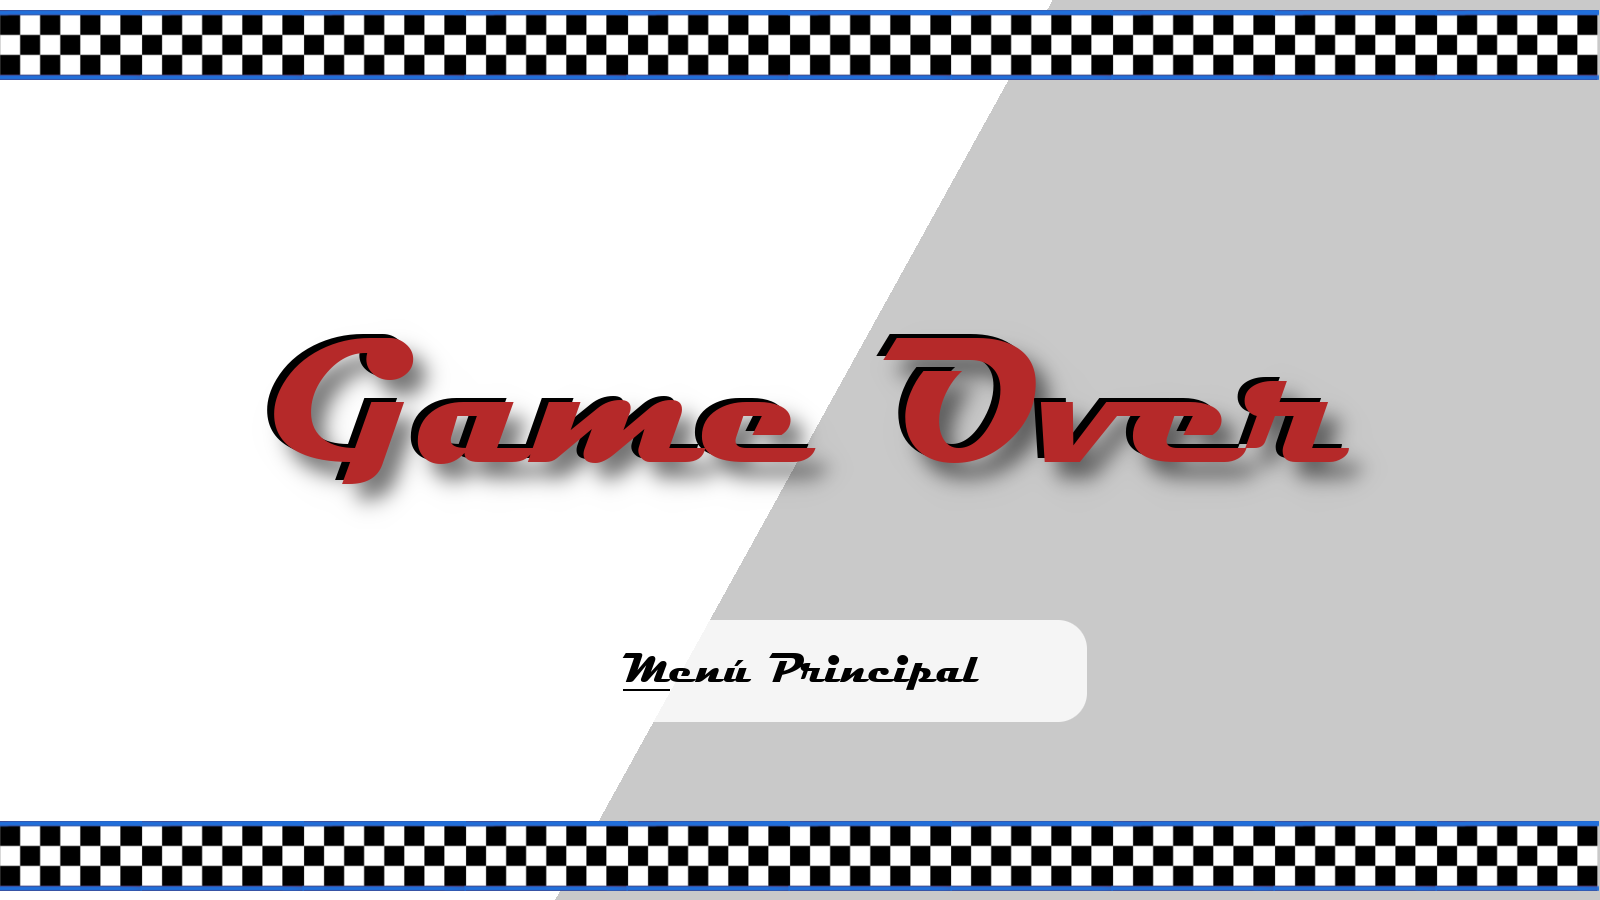
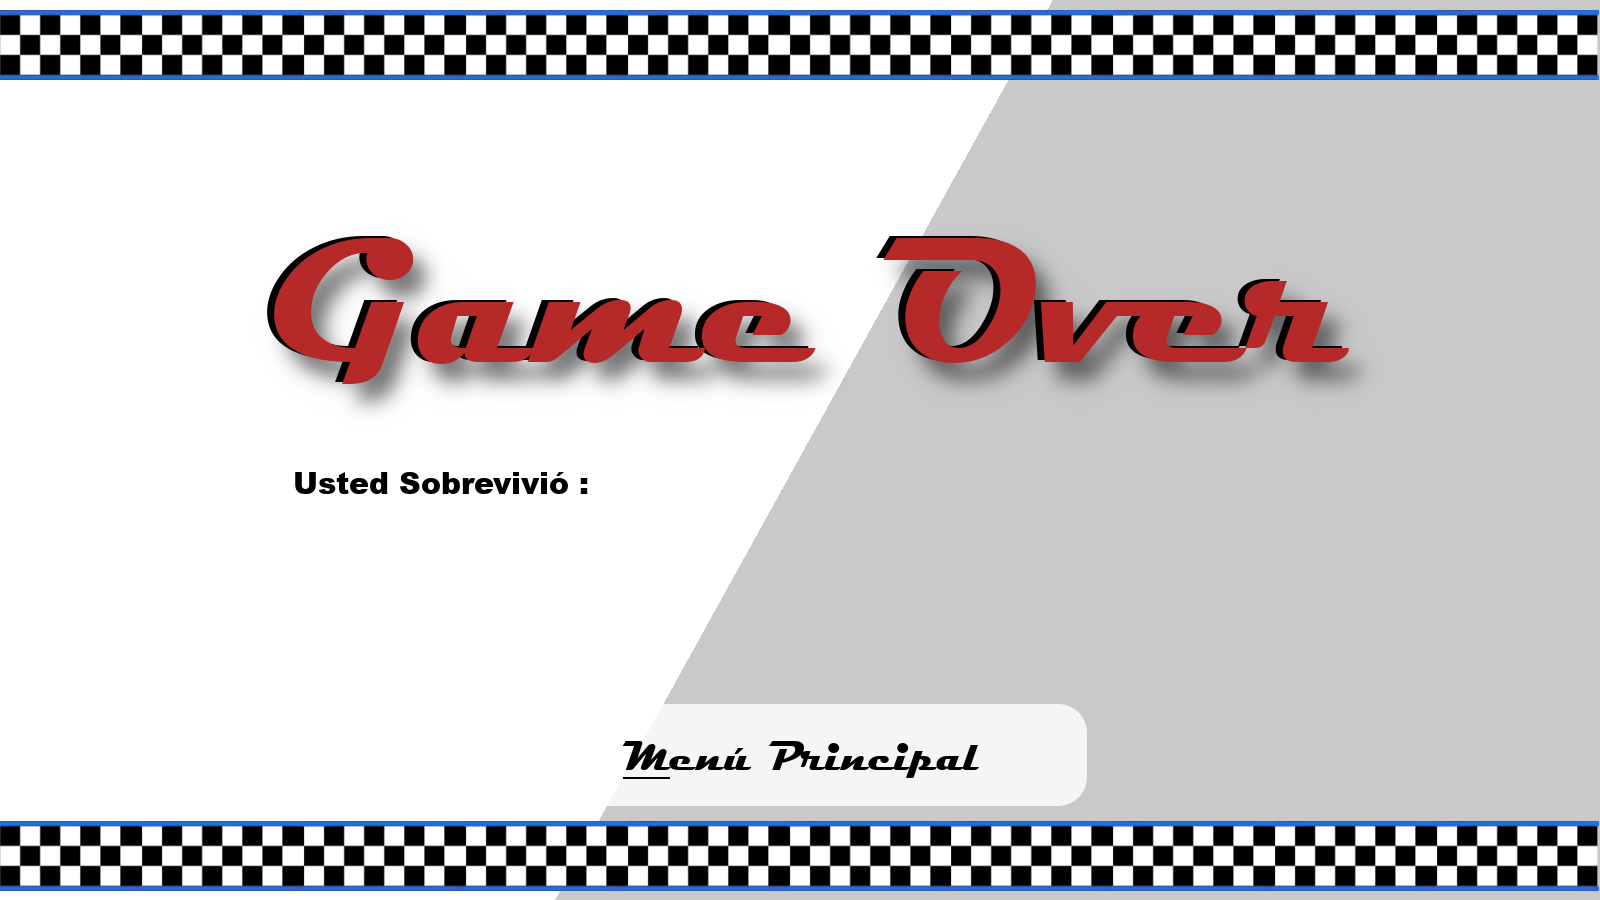
Mejora en Switch Sonidos. Nuevo sonido motor. Game Over más chulo.

Changed region(s): [[0.1562, 0.2489, 0.875, 0.56], [0.375, 0.6844, 0.6875, 0.9022]]

diff --git a/TGC.Group/Model/GameModel.cs b/TGC.Group/Model/GameModel.cs
@@ -69,8 +69,8 @@ namespace TGC.Group.Model
 
         ////////////////////////////////////////////
 
-        int SwitchMusica { get; set; }
-        int SwitchFX { get; set; }
+        bool SwitchMusica = false;
+        bool SwitchFX = false;
         int SwitchInicio { get; set; }
         int SwitchCamara { get; set; }
         int SwitchInvisibilidadJ1 { get; set; }
@@ -205,7 +205,7 @@ namespace TGC.Group.Model
                 auto.choque = new TgcStaticSound();
 
                 auto.sonidoDesaceleracion.loadSound(MediaDir + "Musica\\Desacelerando.wav", -2000, DirectSound.DsDevice);
-                auto.sonidoAceleracion.loadSound(MediaDir + "Musica\\Motor1.wav", -2000, DirectSound.DsDevice);
+                auto.sonidoAceleracion.loadSound(MediaDir + "Musica\\Motor2.wav", -1700, DirectSound.DsDevice);
                 auto.frenada.loadSound(MediaDir + "Musica\\Frenada.wav", -2000, DirectSound.DsDevice);
                 auto.choque.loadSound(MediaDir + "Musica\\Choque1.wav", -2000, DirectSound.DsDevice);
 
@@ -237,12 +237,18 @@ namespace TGC.Group.Model
             {
                 if (TgcCollisionUtils.testAABBAABB(AutoFisico1.BBFinal, Policia.BBFinal) && inGame)
                 {
-                    AutoFisico1.choque.play(false);
+                    if (SwitchFX)
+                    {
+                        AutoFisico1.choque.play(false);
+                    }
                     AutoFisico1.Vida -= 5;
                 }
                 if (TgcCollisionUtils.testAABBAABB(AutoFisico2.BBFinal, Policia.BBFinal) && inGame)
                 {
-                    AutoFisico2.choque.play(false);
+                    if (SwitchFX)
+                    {
+                        AutoFisico1.choque.play(false);
+                    }
                     AutoFisico2.Vida -= 5;
                 }
             }
@@ -251,12 +257,18 @@ namespace TGC.Group.Model
             {
                 if (TgcCollisionUtils.testAABBAABB(AutoFisico1.BBFinal, mesh.BoundingBox) && inGame)
                 {
-                    AutoFisico1.choque.play(false);
+                    if (SwitchFX)
+                    {
+                        AutoFisico1.choque.play(false);
+                    }
                     AutoFisico1.Vida -= 5;
                 }
                 if (TgcCollisionUtils.testAABBAABB(AutoFisico2.BBFinal, mesh.BoundingBox) && inGame)
                 {
-                    AutoFisico2.choque.play(false);
+                    if (SwitchFX)
+                    {
+                        AutoFisico1.choque.play(false);
+                    }
                     AutoFisico2.Vida -= 5;
                 }
             }
@@ -311,42 +323,42 @@ namespace TGC.Group.Model
 
             switch (SwitchMusica)
             {
-                case 1:
+                case true:
                     {
                         Musica.play(true);
                         if (Input.keyPressed(Key.F8))
                         {
-                            SwitchMusica = 2;
+                            SwitchMusica = false;
                         }
                         break;
                     }
-                case 2:
+                case false:
                     {
                         Musica.stop();
                         if (Input.keyPressed(Key.F8))
                         {
-                            SwitchMusica = 1;
+                            SwitchMusica = true;
                         }
                         break;
                     }
             }
             switch (SwitchFX)
             {
-                case 1:
+                case true:
                     {
                         Tribuna.play(true);
                         if (Input.keyPressed(Key.F9))
                         {
-                            SwitchFX = 2;
+                            SwitchFX = false;
                         }
                         break;
                     }
-                case 2:
+                case false:
                     {
                         Tribuna.stop();
                         if (Input.keyPressed(Key.F9))
                         {
-                            SwitchFX = 1;
+                            SwitchFX = true;
                         }
                         break;
                     }
@@ -419,6 +431,7 @@ namespace TGC.Group.Model
                         }
                 }
             }
+
             PostUpdate();
         }
 
@@ -449,8 +462,8 @@ namespace TGC.Group.Model
                         {
                             Jugadores[1] = null;
                             SwitchInicio = 3;
-                            SwitchMusica = 1;
-                            SwitchFX = 1;
+                            SwitchMusica = true;
+                            SwitchFX = true;
                             AutoFisico1.Encendido();
                             inGame = true;
                         }
@@ -458,8 +471,8 @@ namespace TGC.Group.Model
                         {
                             juegoDoble = true;
                             SwitchInicio = 4;
-                            SwitchMusica = 1;
-                            SwitchFX = 1;
+                            SwitchMusica = true;
+                            SwitchFX = true;
                             SwitchCamara = 3;
                             AutoFisico1.Encendido();
                             AutoFisico2.Encendido();
@@ -484,6 +497,7 @@ namespace TGC.Group.Model
 
                         Tiempo += ElapsedTime;
                         AutoFisico1.ElapsedTime = ElapsedTime;
+                        AutoFisico1.FXActivado = SwitchFX;
 
                         // ShaderInvisibilidad -----
                         Invisibilidad.Technique = "DefaultTechnique";
@@ -649,6 +663,8 @@ namespace TGC.Group.Model
                         Tiempo += ElapsedTime;
                         AutoFisico1.ElapsedTime = ElapsedTime;
                         AutoFisico2.ElapsedTime = ElapsedTime;
+                        AutoFisico1.FXActivado = SwitchFX;
+                        AutoFisico2.FXActivado = SwitchFX;
 
                         // ShaderInvisibilidad -----
                         Invisibilidad.Technique = "DefaultTechnique";
@@ -836,6 +852,8 @@ namespace TGC.Group.Model
                     }
                 case 5:
                     {
+                        SwitchFX = false;
+                        SwitchMusica = false;
                         Hud.JuegoTerminado();
                         Hud.TiempoFinal(FastMath.Floor(TiempoFinal));
                         if (Input.keyPressed(Key.M))

diff --git a/TGC.Group/Model/AutoManejable.cs b/TGC.Group/Model/AutoManejable.cs
@@ -30,6 +30,7 @@ namespace TGC.Group.Model
         public TgcStaticSound frenada;
         public TgcStaticSound choque;
         public bool Invisible = false;
+        public bool FXActivado = false;
 
         // Tiempo
         public float ElapsedTime { get; set; }
@@ -45,6 +46,7 @@ namespace TGC.Group.Model
             CuerpoRigidoAuto.Restitution = 0.3f;
             //CuerpoRigidoAuto.RollingFriction = 1000000;
             Fisica.dynamicsWorld.AddRigidBody(CuerpoRigidoAuto);
+
         }        
 
         public void ConfigurarTeclas(Key acelerar, Key atras, Key derecha, Key izquierda, Key freno, Key salto)
@@ -95,7 +97,14 @@ namespace TGC.Group.Model
                     {
                         Direccion = 1;
                         fuerzaMotor = 14000f * ElapsedTime;
-                        sonidoAceleracion.play(true);
+                        if (FXActivado)
+                        {
+                            sonidoAceleracion.play(true);
+                        }
+                        else
+                        {
+                            sonidoAceleracion.stop();
+                        }
                     }
                 }
                 else if (input.keyDown(TeclaAtras))
@@ -104,7 +113,14 @@ namespace TGC.Group.Model
                     {
                         Direccion = -1;
                         fuerzaMotor = 300f;
-                        sonidoAceleracion.play(true);
+                        if (FXActivado)
+                        {
+                            sonidoAceleracion.play(true);
+                        }
+                        else
+                        {
+                            sonidoAceleracion.stop();
+                        }
                     }
                 }
                 else
@@ -136,7 +152,10 @@ namespace TGC.Group.Model
                 if (input.keyDown(TeclaFreno))
                 {
                     CuerpoRigidoAuto.Friction = 8f;
-                    frenada.play(false);
+                    if (FXActivado)
+                    {
+                        frenada.play();
+                    }
                 }
                 else
                 {

diff --git a/TGC.Group/Model/Hud.cs b/TGC.Group/Model/Hud.cs
@@ -39,6 +39,7 @@ namespace TGC.Group.Model
 
         public TgcText2D HudTiempo;
         public TgcText2D TiempoF;
+        public TgcText2D TiempoFF;
 
         public Hud(string mediaDir, AutoManejable[] jugadores)
         {
@@ -156,9 +157,13 @@ namespace TGC.Group.Model
             HudTiempo.changeFont(new System.Drawing.Font("DS-Digital", 90));
 
             TiempoF = new TgcText2D();
-            TiempoF.Color = Color.SlateGray;
-            TiempoF.Position = new Point(0, (int)((float)D3DDevice.Instance.Height * 0.55f));
+            TiempoF.Color = Color.FromArgb(125, 1, 1,1);
+            TiempoF.Position = new Point(0, (int)((float)D3DDevice.Instance.Height * 0.57f));
             TiempoF.changeFont(new System.Drawing.Font("DS-Digital", 90));
+            TiempoFF = new TgcText2D();
+            TiempoFF.Color = Color.FromArgb(1,1,1);
+            TiempoFF.Position = new Point(2, ((int)((float)D3DDevice.Instance.Height * 0.57f))-2);
+            TiempoFF.changeFont(new System.Drawing.Font("DS-Digital", 90));
 
         }
         public void PantallaInicio()
@@ -277,6 +282,8 @@ namespace TGC.Group.Model
         {
             TiempoF.Text = "" + contador + " Segundos";
             TiempoF.render();
+            TiempoFF.Text = "" + contador + " Segundos";
+            TiempoFF.render();
         }
     }
 }
